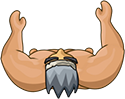
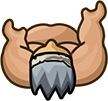
长矛位置

diff --git a/src/Player.js b/src/Player.js
@@ -16,23 +16,11 @@ var Player = cc.Sprite.extend({
     _triggerHeight: 20,
     _startLayer: null,
     ctor: function(playerNum) {
-        this._super("res/dongzuo-1p/zou01-1p.png");
+        this._super("res/dongzuo-"+playerNum+"p/jingzhi-"+playerNum+"p.png");
         this.setCascadeColorEnabled(true);
 
-        this._headSprite = new cc.Sprite("res/dongzuo-1p/jingzhi-1p.png");
-        this.attr({
-            anchorX: 0.5,
-            anchorY: 0.5
-        });
         this.playerNum = playerNum;
-        var size = this.getContentSize();
-        this._headSprite.attr({
-            x: size.width / 2,
-            y: 0,
-            anchorX: 0.5,
-            anchorY: 0.2
-        });
-        this.addChild(this._headSprite);
+
         this._isAvailable = true;
         this.scheduleUpdate();
         this._lastKeyCode = null;
@@ -47,8 +35,7 @@ var Player = cc.Sprite.extend({
     },
 
     startMoving: function() {
-        var animationAction = Util.createAnimation("res/dongzuo-1p/zou0", 1, 2, 2/24, "-1p.png");
-        this.runAction(cc.repeatForever(animationAction));
+
     },
 
     stopAnimation: function() {
@@ -60,9 +47,9 @@ var Player = cc.Sprite.extend({
     },
 
     attackAnimation: function(weaponsName, start, end) {
-        var frameName = "res/dongzuo-1p/" + weaponsName;
-        var animationAction = Util.createAnimation(frameName, start, end, 2/24, "-1p.png");
-        this._headSprite.runAction(
+        var frameName = "res/dongzuo-"+this.playerNum+"p/" + weaponsName;
+        var animationAction = Util.createAnimation(frameName, start, end, 2/24, "-"+this.playerNum+"p.png");
+        this.runAction(
             animationAction
         );
     },
@@ -201,11 +188,11 @@ var Player = cc.Sprite.extend({
                     s._lastKeyCode = null;
                 }
                 if (s.playerNum == 1) {
-                    if (keyCode == cc.KEY.space) {
+                    if (keyCode == cc.KEY.p) {
                         s.releaseAttack();
                     }
                 } else if (s.playerNum == 2){
-                    if (keyCode == cc.KEY.p) {
+                    if (keyCode == cc.KEY.space) {
                         s.releaseAttack();
                     }
                 }
@@ -269,16 +256,17 @@ var Player = cc.Sprite.extend({
                 break;
         }
         blood.setRotation(r);
-        var pos = this.getPosition()
+        var pos = this.getPosition();
         this.setVisible(false);
+        this.removeFromParent();
+        this.removeAllChildren();
         blood.setPosition(pos);
+        var playerNum = this.playerNum;
         blood.runAction(cc.sequence(
             cc.delayTime(0.4),
             cc.removeSelf(),
             cc.callFunc(function() {
-                GameLayerInstance.rebornPlayer(this.playerNum, pos);
-                this.removeFromParent();
-                this.removeAllChildren()
+                GameLayerInstance.rebornPlayer(playerNum, pos);
             }.bind(this))
         ));
         GameLayerInstance.addChild(blood, JAM_ORDER.trigger);
@@ -291,14 +279,14 @@ var Player = cc.Sprite.extend({
         this._weapon = new Spear(this);
         this._weapon.setPosition(pos);
 
-        this._headSprite.addChild(this._weapon, 10);
+        this.addChild(this._weapon, 10);
         this._weapon.checkOrder();
     },
 
     resetWeapon: function() {
         if (this._weapon) this._weapon.removeFromParent();
         this._weapon = new Sword(this);
-        this._headSprite.addChild(this._weapon);
+        this.addChild(this._weapon);
         this._weapon.checkOrder();
     }
 

diff --git a/src/app.js b/src/app.js
@@ -54,27 +54,27 @@ var GameLayer = cc.Layer.extend({
             this.addChild(wall, JAM_ORDER.player, JAM_CHILD_TAG.TRIGGER);
         }
 
-        var p = new SpearItem(false,  0);
-        p.attr({
-            x: cc.winSize.width / 4,
-            y: cc.winSize.height / 4
-        });
-        this.addChild(p, JAM_ORDER.board, JAM_CHILD_TAG.ITEM);
+
 
         this.scheduleUpdate();
         GameLayerInstance = this;
         var posList = [
-            "n",
-            [cc.p(30, cc.winSize.height - 30), cc.p(0, 1)],
-            [cc.p(cc.winSize.width / 2, cc.winSize.height - 30), cc.p(0.5, 1)],
-            [cc.p(cc.winSize.width - 30, cc.winSize.height - 30), cc.p(1, 1)],
+            [cc.p(123 / 2 + 30, cc.winSize.height - 98 / 2 - 30), cc.p(0.5,0.5)],
+            [cc.p(cc.winSize.width / 2, cc.winSize.height - 98/2 - 30), cc.p(0.5,0.5)],
+            [cc.p(cc.winSize.width - 123/2 - 30, cc.winSize.height - 98/2 - 30), cc.p(0.5, 0.5)],
 
-            [cc.p(30, 30), cc.p(0, 0)],
-            [cc.p(cc.winSize.width / 2, 30), cc.p(0.5, 0)],
-            [cc.p(cc.winSize.width - 30 ,30), cc.p(1, 0)]
+            [cc.p(123/2 + 30, 98 / 2 + 30), cc.p(0.5, 0.5)],
+            [cc.p(cc.winSize.width / 2, 98/2+ 30), cc.p(0.5, 0.5)],
+            [cc.p(cc.winSize.width - 123/2-30 ,98/2 + 30), cc.p(0.5, 0.5)]
 
         ];
-        for (var i = 1; i <= 6; i++) {
+        var tp = _.sample(posList);
+        var p = new SpearItem(false, 0);
+        p.setPosition(tp[0]);
+        this.addChild(p, JAM_ORDER.board, JAM_CHILD_TAG.ITEM);
+
+
+        for (var i = 0; i < 6; i++) {
             var v = new Treasure();
             v.setPosition(posList[i][0]);
             v.setAnchorPoint(posList[i][1]);
@@ -86,7 +86,7 @@ var GameLayer = cc.Layer.extend({
         this.addChild(spur, JAM_ORDER.trigger,JAM_CHILD_TAG.TRIGGER);
         var spurSize = spur.getContentSize();
 
-////
+        //
         var r1 = new Reborn();
         r1.setPosition(cc.winSize.width / 4, cc.winSize.height / 2);
         this.addChild(r1, JAM_ORDER.trigger,JAM_CHILD_TAG.TRIGGER);
@@ -97,7 +97,8 @@ var GameLayer = cc.Layer.extend({
         this.addChild(r2, JAM_ORDER.trigger,JAM_CHILD_TAG.TRIGGER);
         spurSize.height += 20;
         this._r2 = r2;
-        // ///
+
+        ///
         var h1 = new Hole();
         h1.setPosition(cc.winSize.width / 5,  cc.winSize.height / 2 - spurSize.height / 2);
         this.addChild(h1, JAM_ORDER.trigger,JAM_CHILD_TAG.TRIGGER);
@@ -138,7 +139,6 @@ var GameLayer = cc.Layer.extend({
     },
 
     update: function(dt) {
-
         this._itemArray = _.filter(this.getChildren(), function(v, k) {
             return v.getTag() == JAM_CHILD_TAG.ITEM;
         }, this);

diff --git a/src/resource.js b/src/resource.js
@@ -9,31 +9,16 @@ var g_resources = [
     "res/weapons/spear01.png",
 
     "res/dongzuo-1p/jingzhi-1p.png",
-    "res/dongzuo-1p/touzhi01-1p.png",
-    "res/dongzuo-1p/touzhi02-1p.png",
-    "res/dongzuo-1p/touzhi03-1p.png",
-    "res/dongzuo-1p/touzhi04-1p.png",
 
     "res/dongzuo-1p/tuci01-1p.png",
     "res/dongzuo-1p/tuci02-1p.png",
     "res/dongzuo-1p/tuci03-1p.png",
 
-    "res/dongzuo-1p/zou01-1p.png",
-    "res/dongzuo-1p/zou02-1p.png",
-
-
     "res/dongzuo-2p/jingzhi-2p.png",
-    "res/dongzuo-2p/touzhi01-2p.png",
-    "res/dongzuo-2p/touzhi02-2p.png",
-    "res/dongzuo-2p/touzhi03-2p.png",
-    "res/dongzuo-2p/touzhi04-2p.png",
 
     "res/dongzuo-2p/tuci01-2p.png",
     "res/dongzuo-2p/tuci02-2p.png",
     "res/dongzuo-2p/tuci03-2p.png",
-
-    "res/dongzuo-2p/zou01-2p.png",
-    "res/dongzuo-2p/zou02-2p.png",
 
     "res/effect/feijian01.png",
     "res/effect/feijian02.png",
@@ -50,7 +35,7 @@ var g_resources = [
     "res/map/huoju.png",
     "res/map/jiguankaiguan.png",
 
-    "res/star_layer.png"
+    "res/start_layer.png"
 
 
 ];

diff --git a/src/Weapons/Sword.js b/src/Weapons/Sword.js
@@ -13,7 +13,7 @@ var Sword = cc.Sprite.extend({
         this._super("res/weapons/jian01.png");
         this._owner = owner;
         this.setAnchorPoint(0.5, 0);
-        this.setPosition(105, 73);
+        this.setPosition(95, 70);
 
         return true;
     },
@@ -26,7 +26,7 @@ var Sword = cc.Sprite.extend({
         if (this._isProgressing == true) return;
         this._isProgressing = true;
         this._owner.attackAnimation(this.frameName, this.startFrame, this.endFrame)
-        var action = cc.moveBy(2.5/24, cc.p(0, 80));
+        var action = cc.moveBy(2.3/24, cc.p(0, 30));
         this.runAction(cc.sequence(
             action,
             action.reverse(),

diff --git a/src/Config.js b/src/Config.js
@@ -3,7 +3,7 @@
  */
 
 var JAM_CONFIG = {
-    move_distance: 100,
+    move_distance: 250,
     rotate: 10,
     UP: 1,
     RIGHT: 2,
